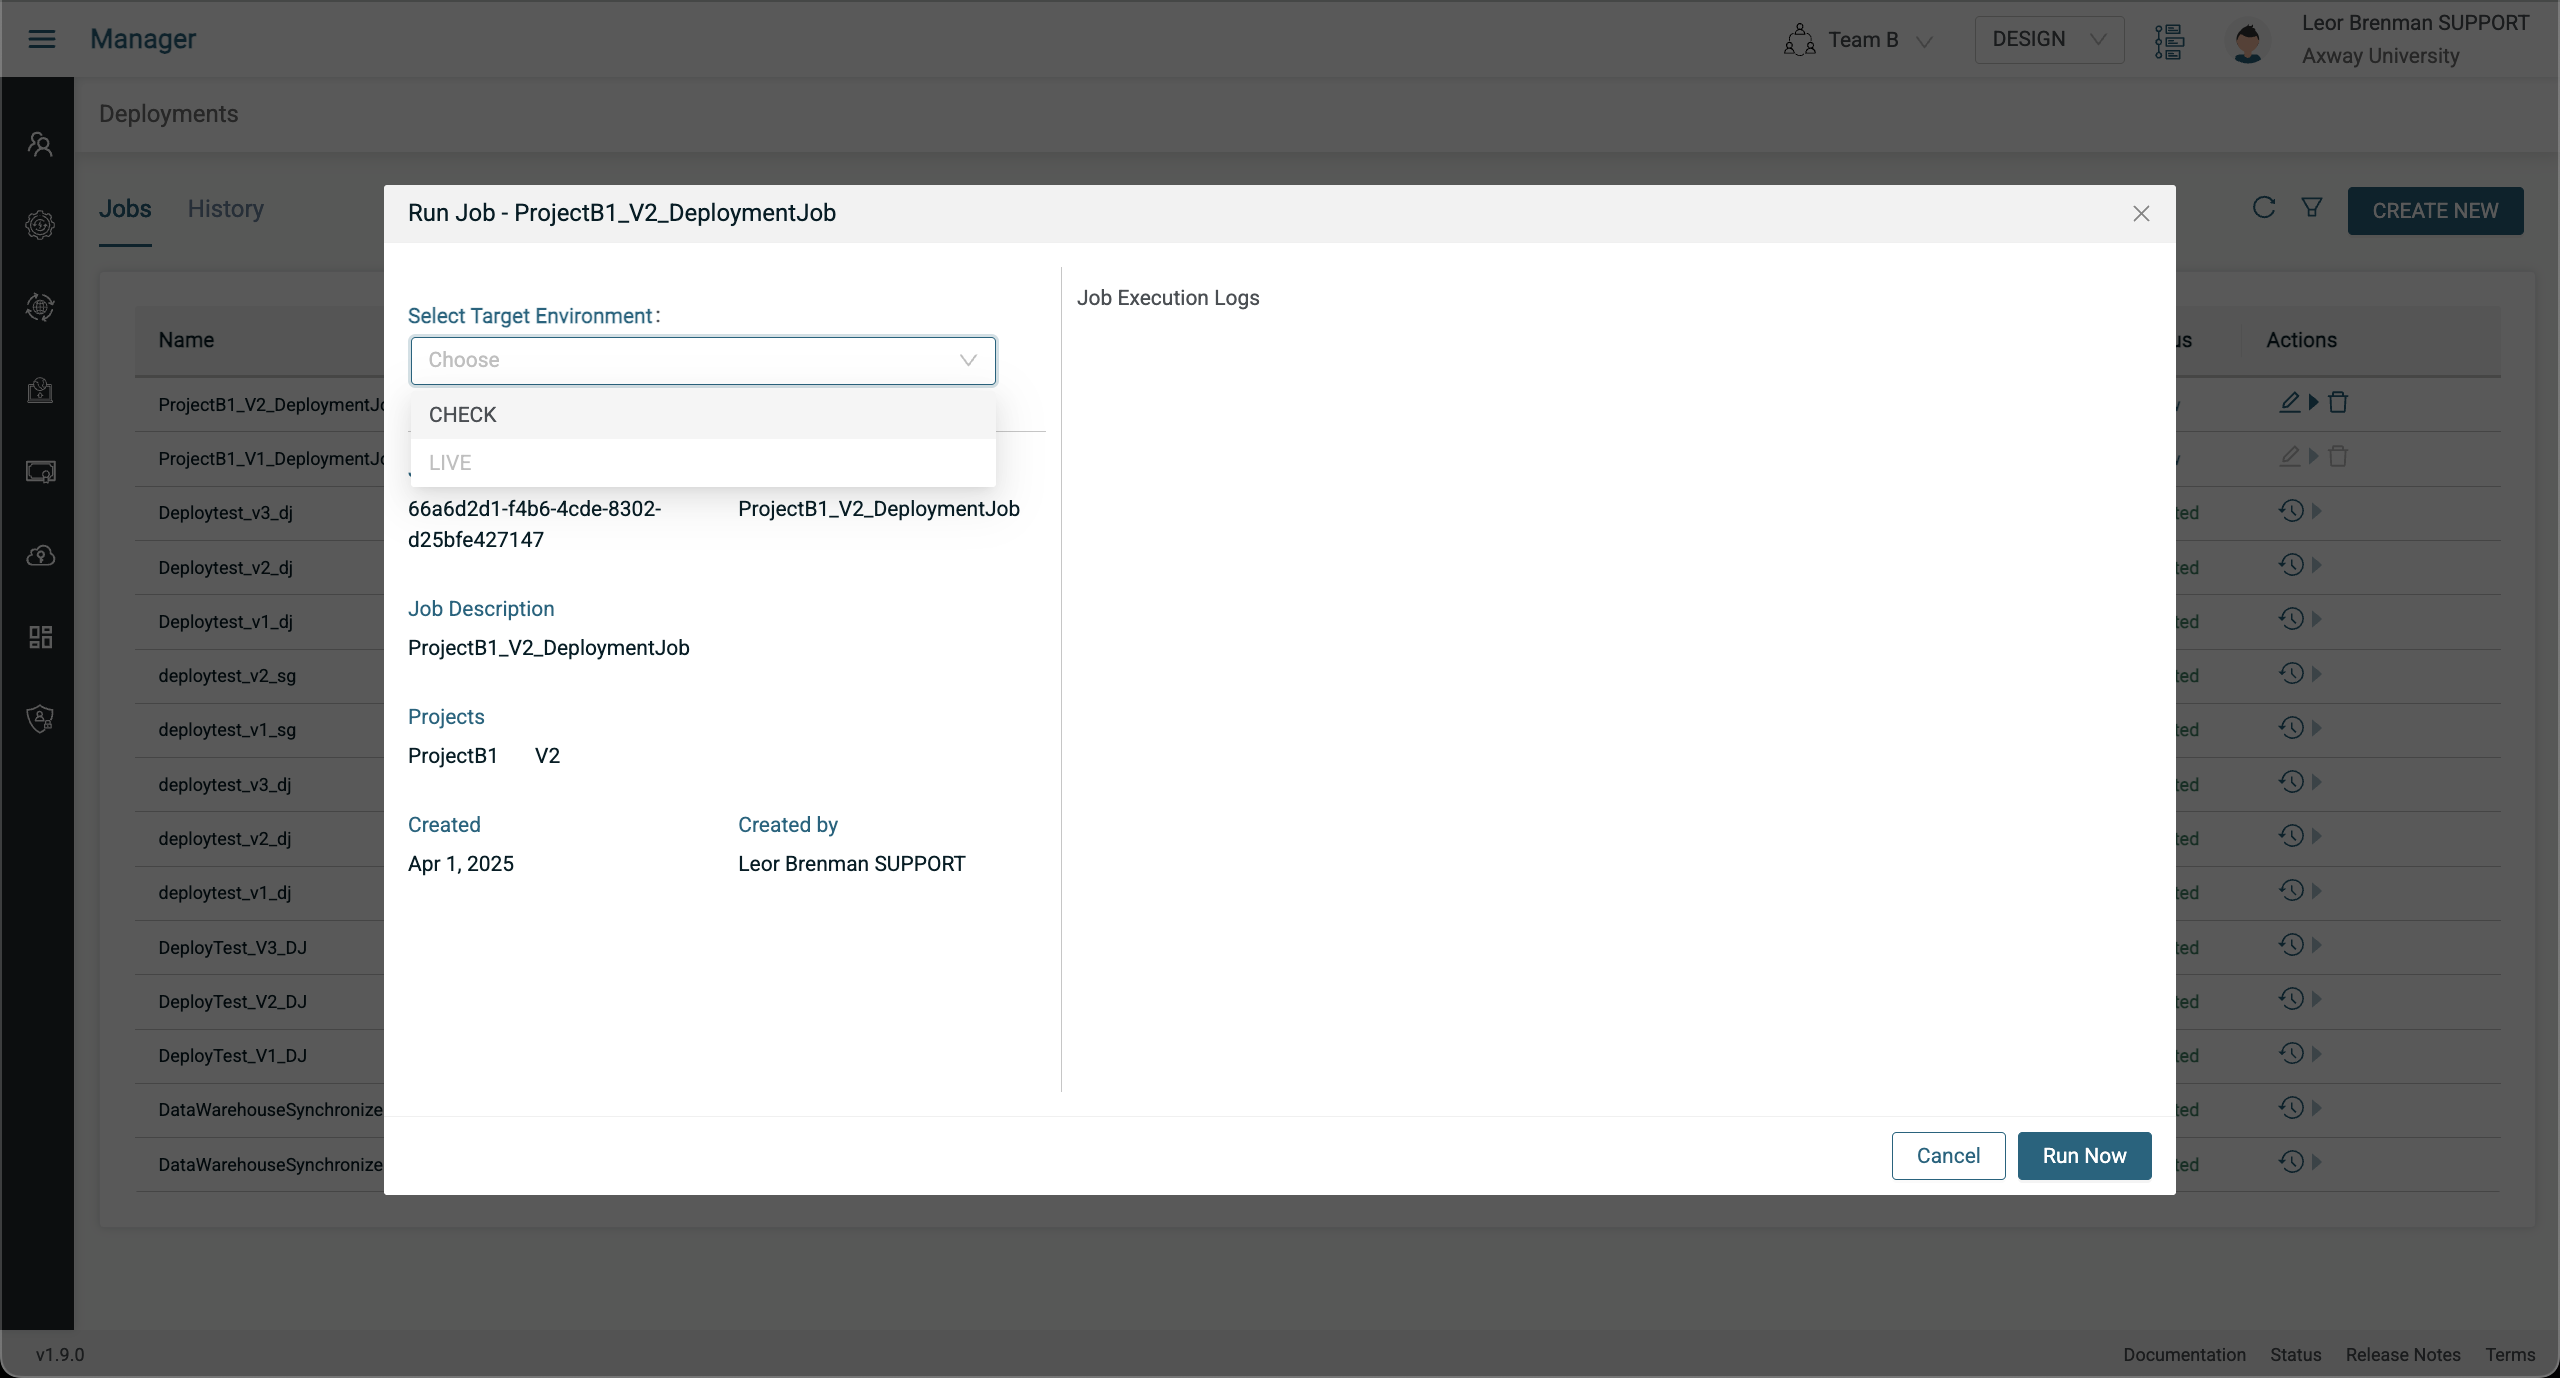
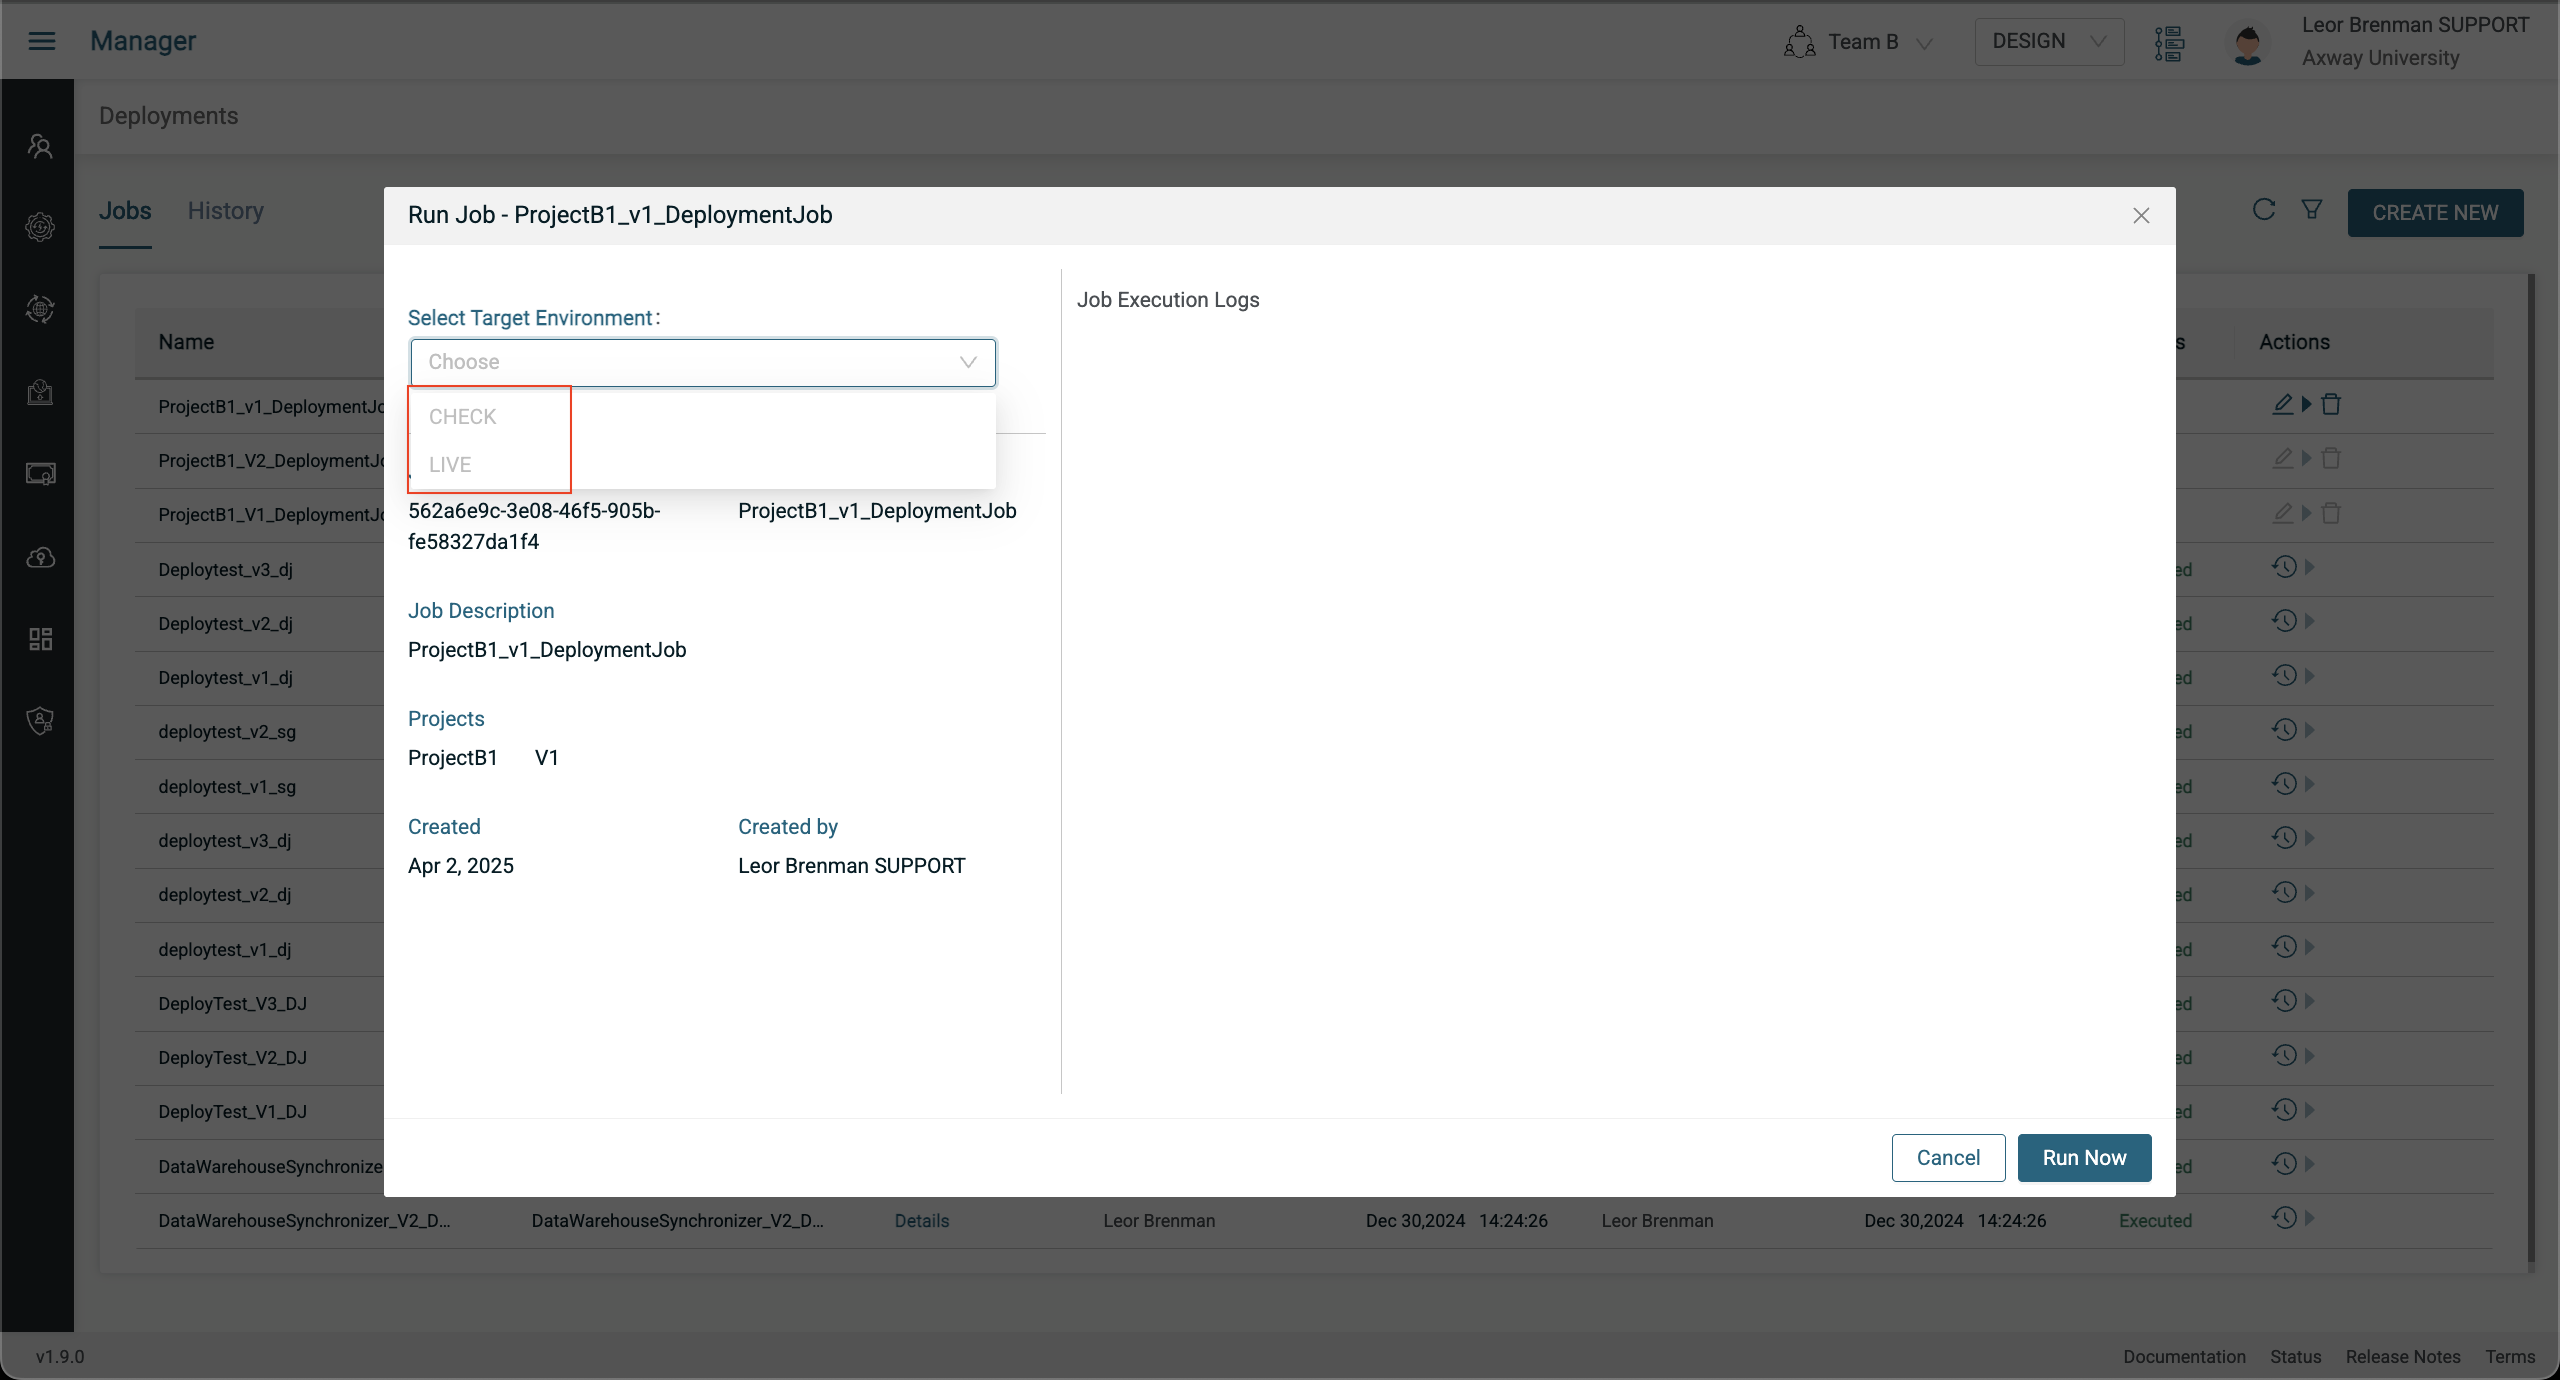
updated User management lab

diff --git a/user-management/README.md b/user-management/README.md
@@ -62,11 +62,11 @@ You should prefix all Project and Team names with your initials (e.g. LB_Project
 
 ## Lab 3
 
-In this lab we'll add the second user to another team, Team B, with an enhanced role of Designer and Deployer in DESIGN and CHECK modes. Then we'll log in as the second user and see that they have limited access to ProjectB1 and ProjectB2 in Team B in addition to ProjectA in Team A. This time, they can access the projects in Team B too AND they can also create deployment jobs on Team B projects and run the deployment job into CHECK.
+In this lab we'll add the second user to another team, Team B, with an enhanced role of Designer and Deployer in DESIGN mode. Then we'll log in as the second user and see that they have limited access to ProjectB1 and ProjectB2 in Team B in addition to ProjectA in Team A. This time, they can access the projects in Team B too AND they can also create deployment jobs on Team B projects but they won't be able to run the deployment job into CHECK or LIVE as they don't have access.
 
 We'll also see how to use the Set Preferred Teams picker.
 
-* As your main user, create Team B and add ProjectB1 and ProjectB2 and click the + Add User button to add your second user with additional Designer DESIGN and Deployer DESIGN and CHECK roles. Click Save and Save again.
+* As your main user, create Team B and add ProjectB1 and ProjectB2 and click the + Add User button to add your second user with additional Designer DESIGN and Deployer DESIGN roles. Click Save and Save again.
 ![lab3](images/lab3-teambuser-1.png)
 * Logout your second user and log back in again
 ![lab3](images/lab3-seconduserlogin-1.png)
